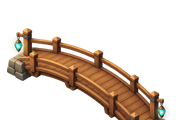
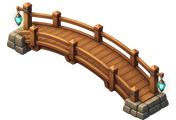
Le pont de Gardebois entier : l'image d'origine reprise de l'historique Higgsfield, l'appui est sur la berge
L'image brute (variante A, aucun crédit) redonne au pixel près l'ancienne image une fois traitée ;
elle est retraitée sans couper son appui de pierre est, et le placement compense. npm run art refait
un grand décor même quand l'image de sa case (l'eau) manque.

Claude-Session: https://claude.ai/code/session_01SqW3qEzeJiLSsskvSgfPir

diff --git a/src/engine/bigGround.ts b/src/engine/bigGround.ts
@@ -17,9 +17,10 @@ export interface BigGroundArt {
 }
 
 export const BIG_GROUND_ART: Record<string, BigGroundArt> = {
-  // Measured on public/decor/pont.png: the deck lay about 18 px behind the feet line (half a cell along the rows); its
-  // front railing and edge rise 14 px, from its first front post (x 34).
-  pont: { shift: { x: -18, y: 9 }, front: { height: 14, fromX: 34 } },
+  // Measured on public/decor/pont.png: its deck lies on the feet line once moved half a cell along the rows (−18, +9)
+  // and lowered by the 26 px of its east footing, whole since 2026-11-04, which sinks below the block into the bank;
+  // its front railing and edge rise 14 px, from its first front post (x 34).
+  pont: { shift: { x: -18, y: 9 + 26 }, front: { height: 14, fromX: 34 } },
 };
 
 /** An opaque enough pixel belongs to the picture. */

diff --git a/src/engine/bigGround.test.ts b/src/engine/bigGround.test.ts
@@ -27,10 +27,10 @@ describe('le devant d’un grand décor de sol (la rambarde du pont)', () => {
     expect(alpha(data, 2, 2)).toBe(255);
   });
 
-  it('le pont est décrit : déplacé d’une demi-case vers l’avant, une rambarde d’une douzaine de pixels', () => {
+  it('le pont est décrit : déplacé vers l’avant et vers le bas, une rambarde d’une douzaine de pixels', () => {
     const { shift, front } = BIG_GROUND_ART.pont;
-    // Half a cell along the rows (−32, +16 per cell) moves the deck's line by 16 px at a given x.
-    expect(shift.y - shift.x / 2).toBeGreaterThanOrEqual(14);
+    expect(shift.x).toBeLessThan(0);
+    expect(shift.y).toBeGreaterThan(0);
     expect(front.height).toBeGreaterThanOrEqual(10);
     expect(front.height).toBeLessThan(20);
   });

diff --git a/docs/ASSETS.md b/docs/ASSETS.md
@@ -291,7 +291,9 @@ footings at both ends. No water, no river, no ground, no grass, no cast shadow. 
 (grand décor de sol), appuis enfoncés dans les berges ; la lanterne qui se trouvait sur son passage est retirée.
 Recalage du 2026-11-04 (retour de Cyril : le héros « passe à côté ») : l'image est posée 18 px à gauche et 9 px plus
 bas (une demi-case vers l'avant), et sa rambarde de devant est redessinée au-dessus des marcheurs
-(`src/engine/bigGround.ts`) ; aucune nouvelle génération.
+(`src/engine/bigGround.ts`) ; aucune nouvelle génération. Le même jour, l'image entière : l'image brute d'origine,
+reprise de l'historique Higgsfield (variante A, `e3e82355`, identique au pixel près à l'ancienne une fois traitée ;
+aucun crédit), est retraitée sans couper son appui est (`foot: 120` au lieu de 146) ; le placement compense (+26 px).
 
 ## Jalon 2, étape 4 : contenu (2026-11-01, 22 images, 16 crédits, solde 19)
 

diff --git a/docs/a-essayer.md b/docs/a-essayer.md
@@ -218,7 +218,8 @@ En ligne le 2026-11-03 (tes textes du 3 novembre) :
 ## Le pont de Gardebois et la marche à la souris (en ligne pour essai le 2026-11-04)
 
 - [ ] **Traverse le pont** (Gardebois, à l'est du village) : le héros marche sur le tablier, derrière la rambarde de
-      devant qui lui cache les pieds ; les compagnons et les passants aussi. Encore « à côté » à un endroit ?
+      devant qui lui cache les pieds ; les compagnons et les passants aussi. Le pont est entier : son appui de pierre
+      est sur la berge est, plus coupé net. Encore « à côté » ou « image de fond » à un endroit ?
 - [ ] **Plus de marche au clavier** (flèches, ZQSD) : sur la carte comme au combat, on se déplace à la souris ; E,
       Espace, Entrée, I, J, C, Échap et les touches du combat restent.
 - Remarques :

diff --git a/docs/archive/journal-2026-11.md b/docs/archive/journal-2026-11.md
@@ -1112,3 +1112,7 @@ Le passage au jalon suivant attend le feu vert de Cyril (`CLAUDE.md` §4).
   marcheurs. Le dessin est recalé (`src/engine/bigGround.ts`) et sa rambarde de devant est redessinée par-dessus les
   marcheurs du pont (14 px de chaque colonne, sans l'appui de pierre devant lequel pousse une fougère). Vérifié à
   l'écran case par case. 736 tests. Mis en ligne pour essai.
+- Cyril : « oui on fait ça » : l'image d'origine du pont reprise de son historique Higgsfield (variante A, sans
+  crédit ; retraitée, elle redonne l'ancienne au pixel près) ; le pont est maintenant entier, appui de pierre est
+  compris, posé sur la berge. `npm run art` refait un grand décor même sans l'image de la case (l'eau). Vérifié à
+  l'écran. Mis en ligne pour essai.
